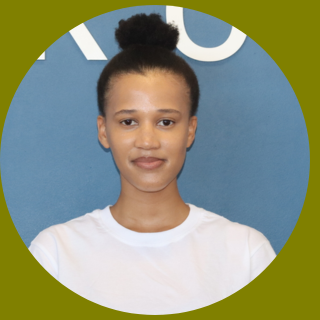
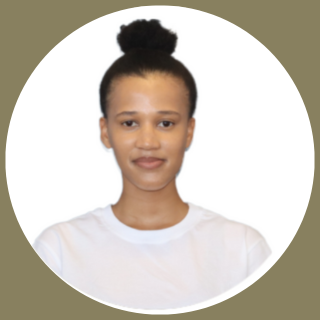
background colour change from olive to light green

diff --git a/style.css b/style.css
@@ -7,7 +7,7 @@
 
 body {
     font-family: "Poppins", sans-serif;
-    background-color: rgb(141, 141, 7);
+    background-color: #88805f;
     color: #333;
 }
 
@@ -38,7 +38,7 @@ nav {
     justify-content: space-around;
     align-items: center;
     height: 15vh;
-    background-color: rgb(175, 175, 8);
+    background-color: #88805f;
     z-index: 50; 
 }
 
